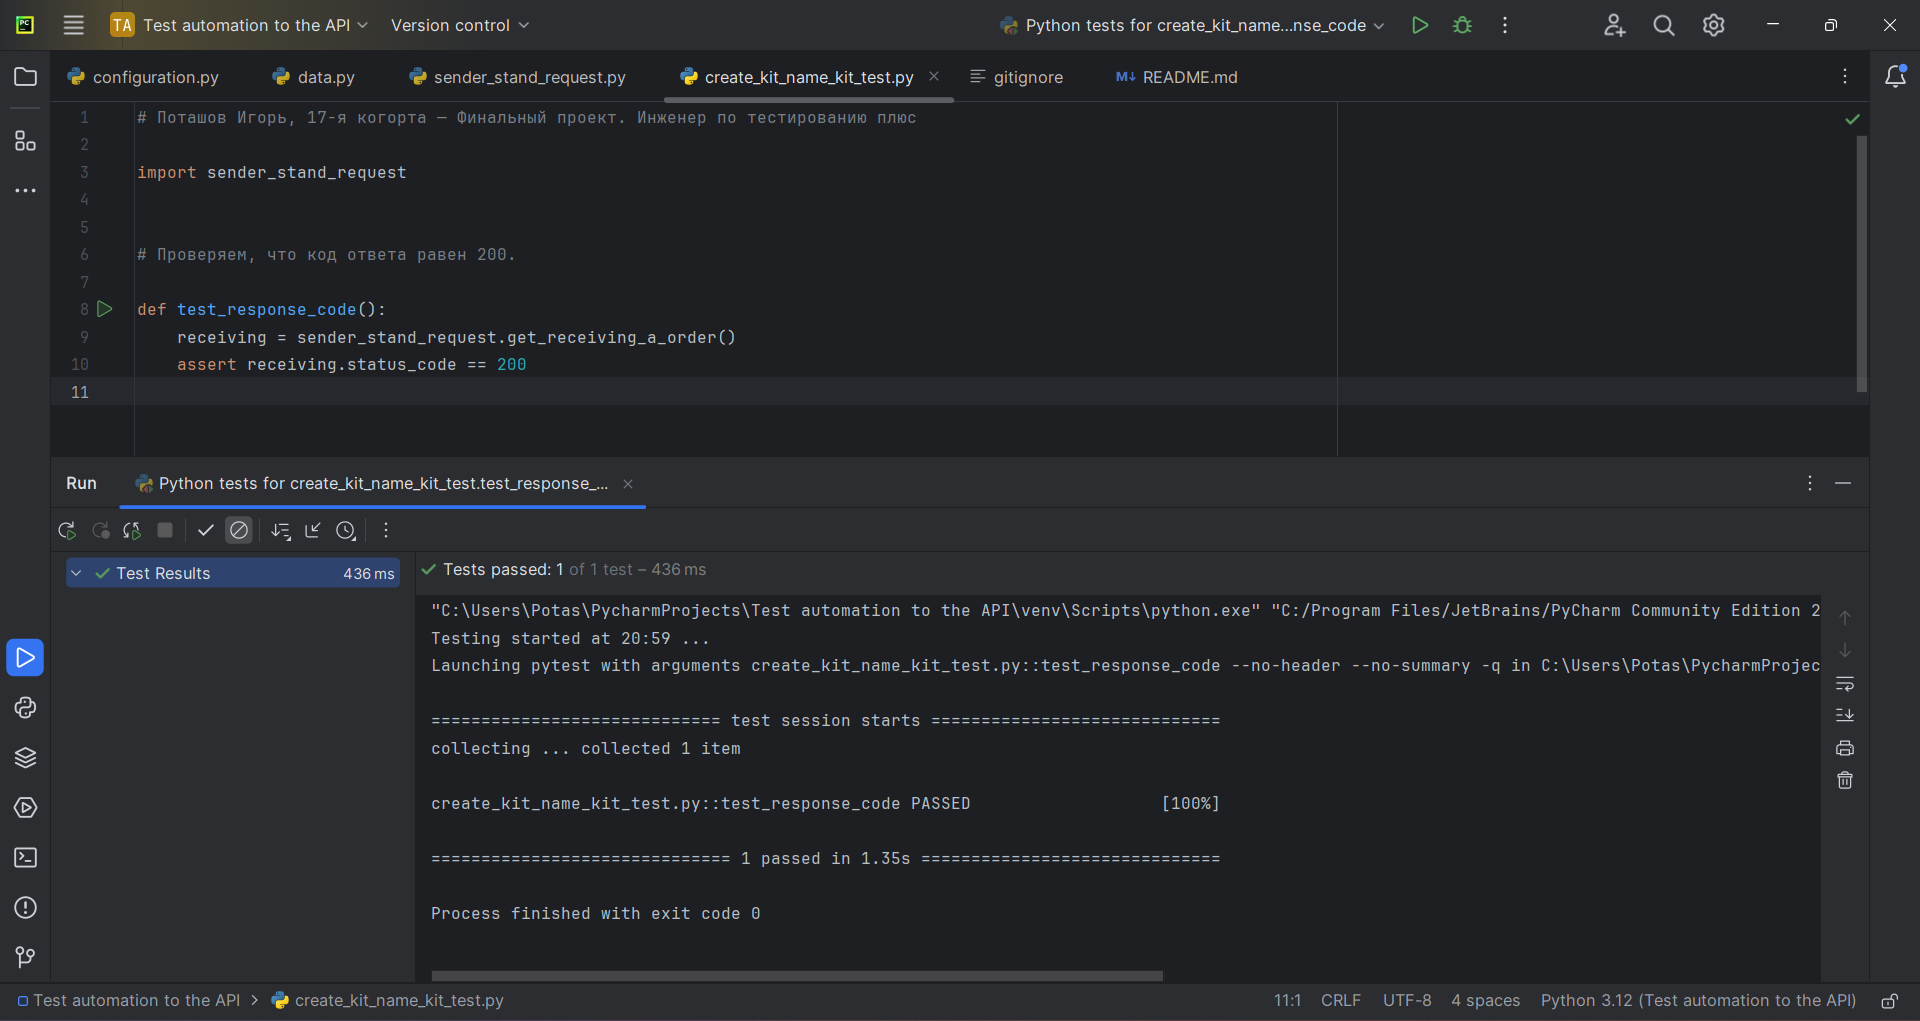
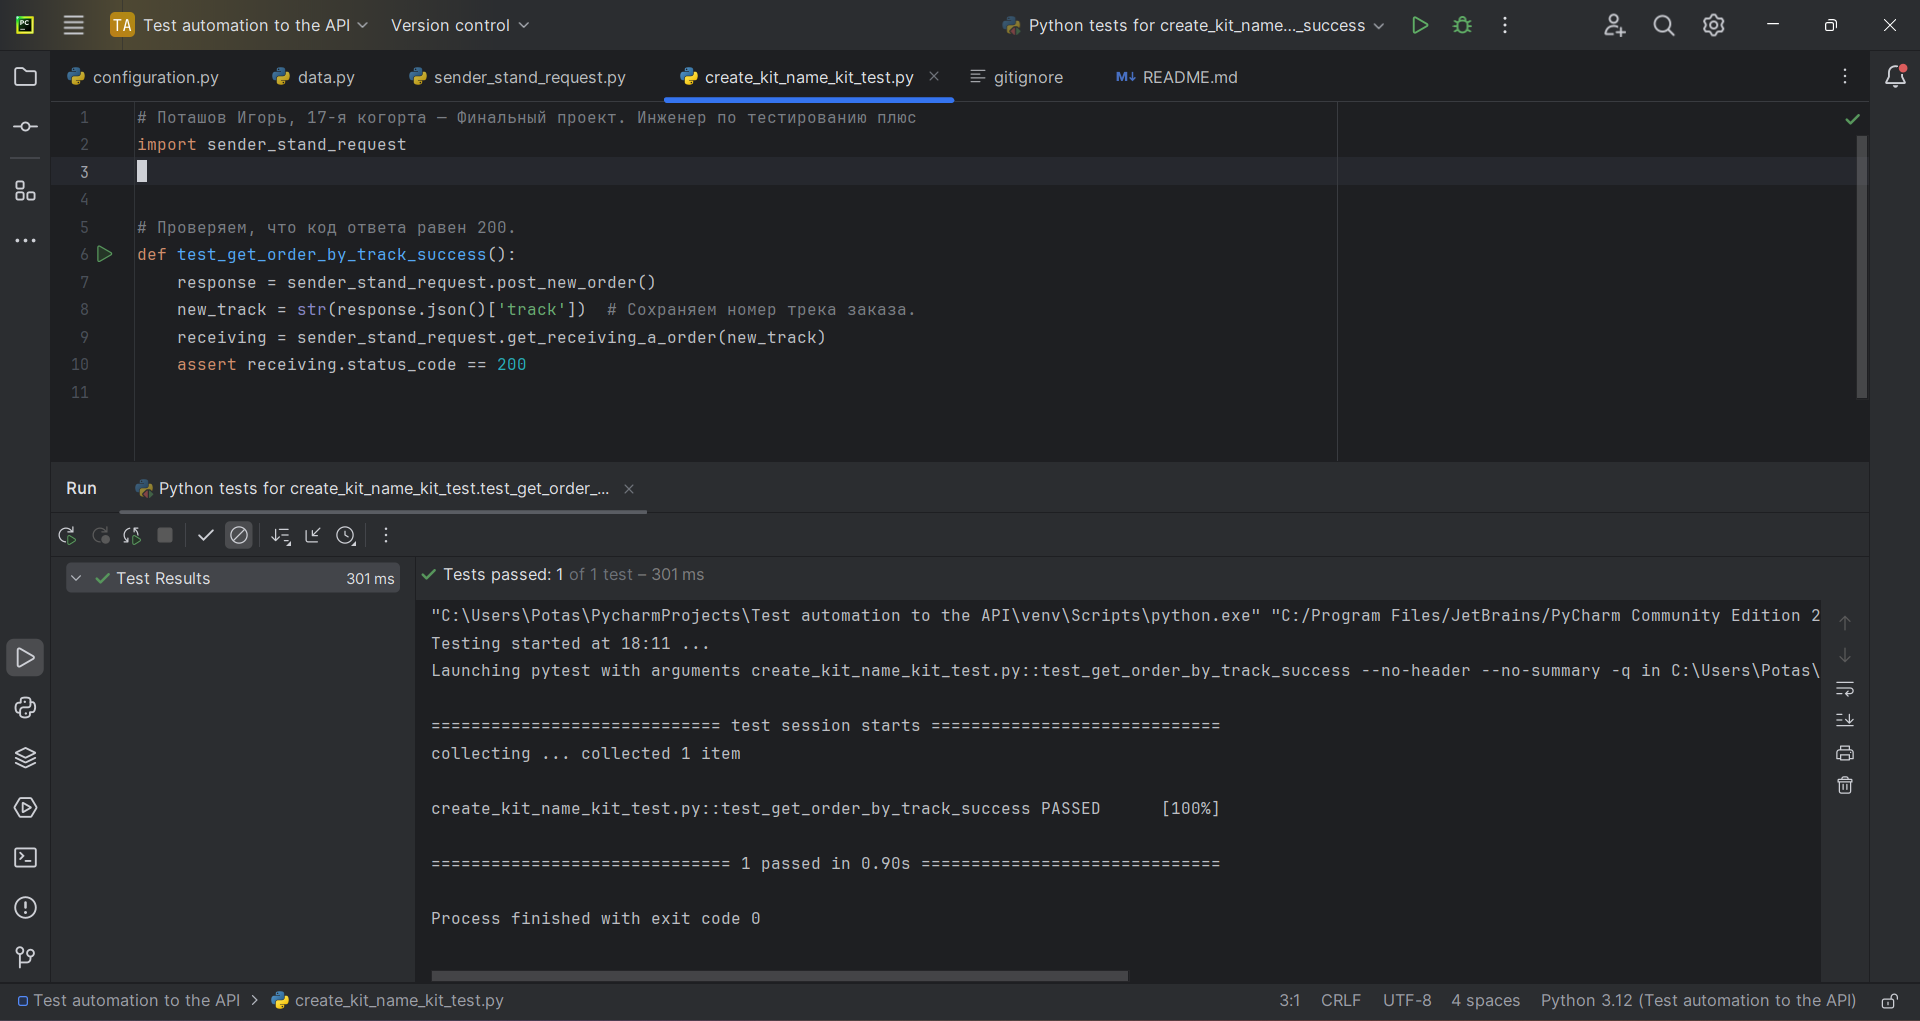
Error correction

diff --git a/sender_stand_request.py b/sender_stand_request.py
@@ -4,17 +4,15 @@ import data
 
 
 # Создаём POST-запрос запрос на создание заказа.
-def post_new_order(body):
+def post_new_order():
     return requests.post(configuration.URL_SERVICE + configuration.CREATING_AN_ORDER,
-                         json=body,
+                         json=data.order_body,
                          headers=data.headers_order)
 
 
-# Создаём GET-запрос на  получения заказа по треку заказа.
-def get_receiving_a_order():
-    response = post_new_order(data.order_body)
-    new_track = str(response.json()['track'])  # Сохраняем номер трека заказа.
-    return requests.get(configuration.URL_SERVICE + configuration.GETTING_A_TRACK + new_track)
+# Создаём GET-запрос на получения заказа по треку заказа.
+def get_receiving_a_order(track):
+    return requests.get(configuration.URL_SERVICE + configuration.GETTING_A_TRACK + track)
 
 
 

diff --git a/create_kit_name_kit_test.py b/create_kit_name_kit_test.py
@@ -4,7 +4,8 @@ import sender_stand_request
 
 
 # Проверяем, что код ответа равен 200.
-
-def test_response_code():
-    receiving = sender_stand_request.get_receiving_a_order()
+def test_get_order_by_track_success():
+    response = sender_stand_request.post_new_order()
+    new_track = str(response.json()['track'])  # Сохраняем номер трека заказа.
+    receiving = sender_stand_request.get_receiving_a_order(new_track)
     assert receiving.status_code == 200

diff --git a/configuration.py b/configuration.py
@@ -1,4 +1,4 @@
-URL_SERVICE = " https://fe243ee8-1ca1-434b-a6bc-e57bbb6c9035.serverhub.praktikum-services.ru"
+URL_SERVICE = "https://362f5a3d-2a0f-49f2-842d-0146d10980aa.serverhub.praktikum-services.ru"
 
 CREATING_AN_ORDER = "/api/v1/orders"  # Создание заказа
 
